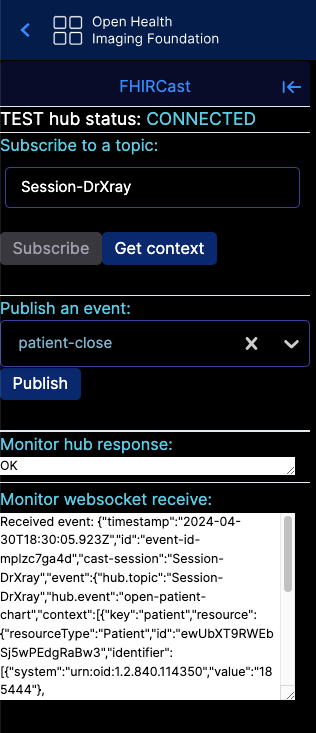
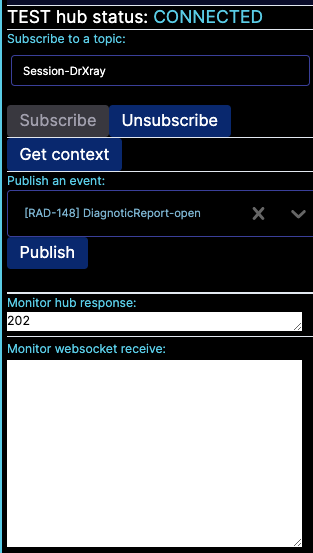
update screenshot

diff --git a/README.md b/README.md
@@ -28,7 +28,7 @@
   <p><strong>The OHIF Viewer</strong> is a zero-footprint medical image viewer
 provided by the <a href="https://ohif.org/">Open Health Imaging Foundation (OHIF)</a>. It is a configurable and extensible progressive web application with out-of-the-box support for image archives which support <a href="https://www.dicomstandard.org/using/dicomweb/">DICOMweb</a>.</p>
 </div>
-This extension is a collection of  FHIR integration clients and components such as the SMART on FHIR launch with patient context, SMART Imaging Access and FHIRcast.
+This extension is a collection of clients and test/troubleshooting tools for FHIR based integrations such as SMART on FHIR launch with patient context, SMART Imaging Access and FHIRcast.
 
 
 
@@ -121,7 +121,7 @@ where 'NAME' matches name of the entry in the configuration file.
 
 ### Test side panel
 
-The first step is to subscribe to the hub for a specific topic.  A FHIRcast topic is defined by the hub and is normally a secret user identifier or a user session identifier. If you open multiple test clients using the same topic, perhaps one on your PC and one one your tablet, you will see the messages going across.   
+The first step is to subscribe to the hub for a specific topic.  A FHIRcast topic is defined by the hub and is normally a secret user identifier or a user session identifier. If you open multiple test clients using the same topic, perhaps one on your PC and one on your tablet, you will see the messages going across.   
 
  ![sidepanel](/images/fhircast-side-panel.png)
 
@@ -138,12 +138,12 @@ The first step is to subscribe to the hub for a specific topic.  A FHIRcast topi
 
 #### Installation
 The side panel is named FhircastPanel.  It can be added to OHIF modes like other extensions in the routes section of the mode index file.  For example, to add to the left panel:
-
+ 
 leftPanels: ['fhir.panelModule.FhircastPanel']
 
 #### Subscribe to the hub
 ```typescript
-import {fhircastSubscribe,fhircastPublish, fhircastGetContext}  from 'fhircast';
+import {fhircastSubscribe, fhircastPublish, fhircastGetContext}  from 'fhircast';
 
 const hubSubscribeResponse = await fhircastSubscribe(hub,topic,fhircastCallback);   
     
@@ -159,7 +159,7 @@ Implement the callback function fhircastCallback:
 
 ```typescript
 const fhircastCallback(event) {
-if (event.event-type==='patient-open') {
+if (event.event-type==='imagingstudy-open') {
     // Do something here
     }
 }
@@ -170,6 +170,8 @@ const hubContextResponse = await fhircastGetContext(hub,topic);
 
 ```
 The response in this case is a JSON object containing the context information.
+
+The test hub in this example is the [FHIRcast Javascript sandbox](https://github.com/fhircast/sandbox.js).
 
 ### PowerCast connector
 The PowerCast connector is  a utility of the Nuance PsOne reporting client.  It runs on Windows PC and provides a local endpoint for discovery and login.  It can launch the PsOne client and also provide the FHIRcast topic. Specifications aer here: 
